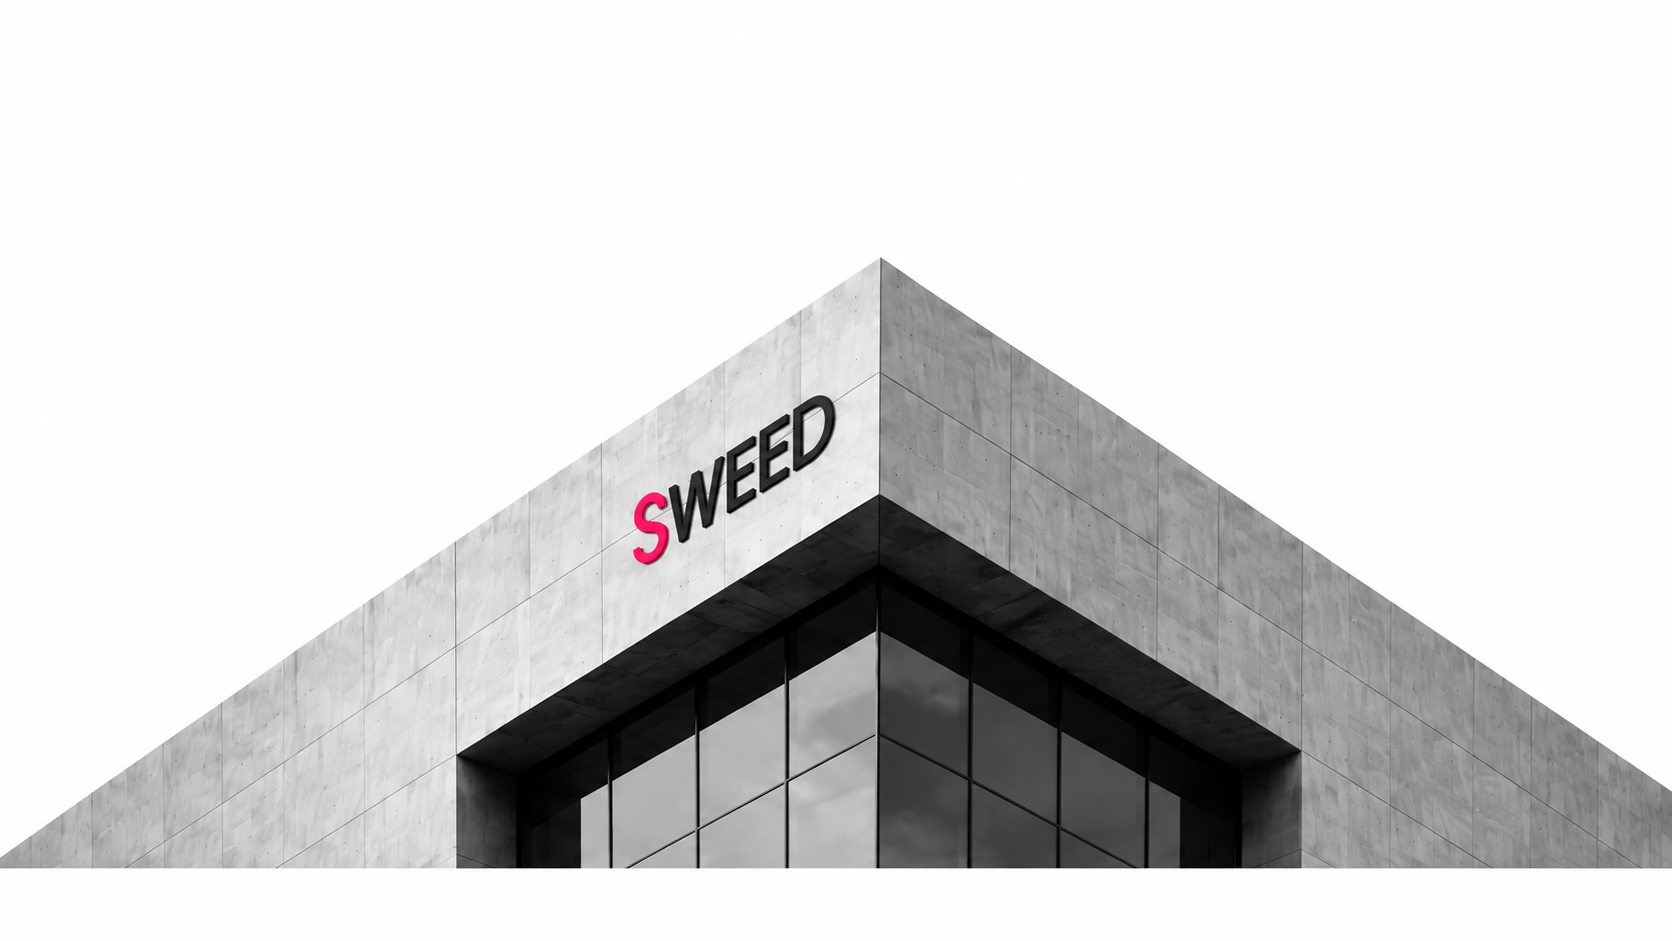
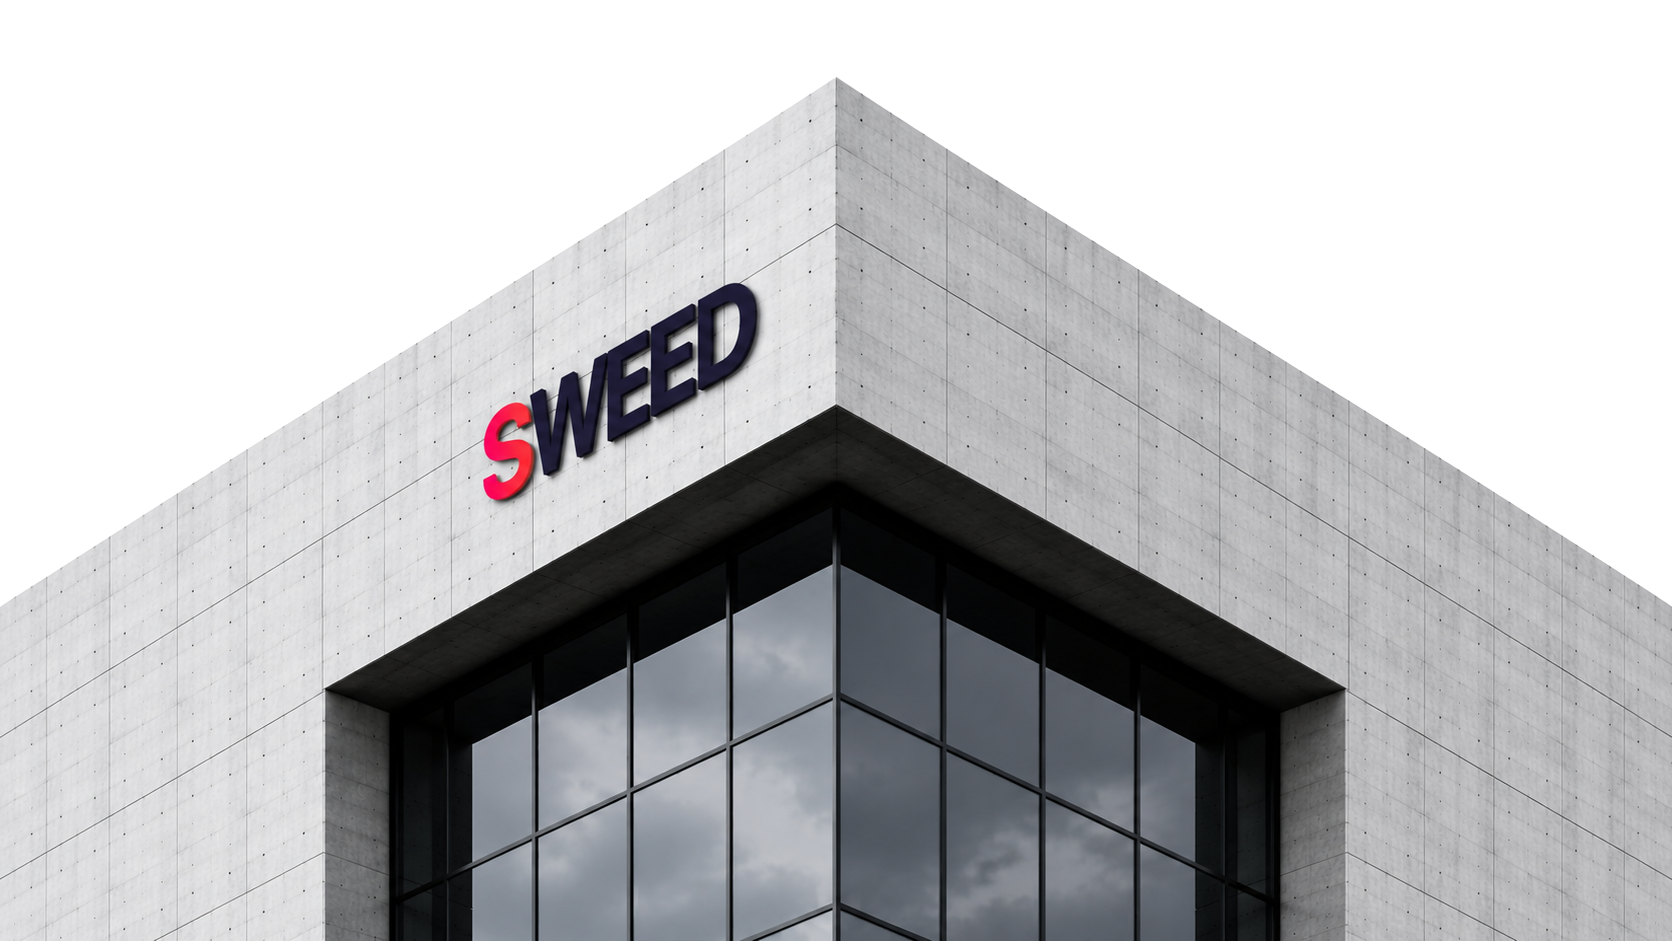
fix: verify hero building and horse section

diff --git a/apps/web/src/features/homepage/home-public-page.tsx b/apps/web/src/features/homepage/home-public-page.tsx
@@ -296,8 +296,7 @@ export function HomePublicPage() {
     const redDots = section.querySelectorAll(`.${styles.redDot}`);
     gsap.set(redDots, { scale: 0 });
 
-    // Timeline for assets reveal (starts when preloader triangle begins opening: 1.6s)
-    const tl = gsap.timeline({ delay: 1.6 });
+    const tl = gsap.timeline({ delay: 0.2 });
 
     tl.to([gridLineLeftRef.current, gridLineRightRef.current], {
       scaleY: 1,
@@ -321,7 +320,7 @@ export function HomePublicPage() {
       opacity: 1,
       duration: 1.1,
       ease: "power3.out",
-    }, "+=0.4");
+    }, "-=0.2");
 
     // ScrollTrigger for the pyramid reveal of the Partners section over the building
     const pyramid = clientsStripRef.current?.querySelector(`.${styles.pyramidOverlay}`);
@@ -483,7 +482,7 @@ export function HomePublicPage() {
 
           <div className={styles.container}>
             <div className={styles.heroContent}>
-              <HeroTextReveal className={styles.heroH1} delay={2.5}>
+              <HeroTextReveal className={styles.heroH1} delay={0.15}>
                 <span className={styles.h1Line}>
                   <span data-word style={{ display: "inline-block", whiteSpace: "pre" }}>نصنع </span>
                   <span data-word style={{ display: "inline-block", whiteSpace: "pre" }}>العلامات </span>
@@ -496,7 +495,7 @@ export function HomePublicPage() {
                 </span>
               </HeroTextReveal>
 
-              <HeroFadeIn className={styles.heroSubtitleWrapper} delay={2.8}>
+              <HeroFadeIn className={styles.heroSubtitleWrapper} delay={0.25}>
                 <p className={styles.heroSubtitle}>
                   نحن وكالة تسويق وتصميم علامات تجارية متكاملة.
                 </p>
@@ -505,7 +504,7 @@ export function HomePublicPage() {
                 </p>
               </HeroFadeIn>
 
-              <HeroFadeIn delay={3.0}>
+              <HeroFadeIn delay={0.35}>
                 <div className={styles.heroActions}>
                   <MagneticButton>
                     <ActionButton action={homepageContent.hero.actions[0]} />

diff --git a/apps/web/src/features/homepage/chess-3d-section.tsx b/apps/web/src/features/homepage/chess-3d-section.tsx
@@ -1,11 +1,33 @@
 "use client";
 
 import Script from "next/script";
-import { createElement } from "react";
+import { createElement, useEffect, useRef } from "react";
 import Image from "next/image";
 import styles from "./chess-3d-section.module.css";
 
 export function Chess3DSection() {
+  const viewerRef = useRef<HTMLElement | null>(null);
+
+  useEffect(() => {
+    const viewer = viewerRef.current;
+    if (!viewer) return;
+
+    let frame = 0;
+    let angle = 0;
+    let last = performance.now();
+
+    const rotate = (now: number) => {
+      angle = (angle + (now - last) * 0.012) % 360;
+      last = now;
+      const distance = window.innerWidth <= 520 ? "4.2m" : window.innerWidth <= 860 ? "3.4m" : "3.2m";
+      viewer.setAttribute("camera-orbit", `${angle.toFixed(2)}deg 72deg ${distance}`);
+      frame = requestAnimationFrame(rotate);
+    };
+
+    frame = requestAnimationFrame(rotate);
+    return () => cancelAnimationFrame(frame);
+  }, []);
+
   return (
     <section className={styles.section} aria-label="SWEED 3D strategy board">
       <Script
@@ -21,8 +43,8 @@ export function Chess3DSection() {
             "auto-rotate": "",
             "auto-rotate-delay": "0",
             "camera-controls": "true",
-            "camera-orbit": "0deg 72deg 2.6m",
-            "camera-target": "0m 0.65m 0m",
+            "camera-orbit": "0deg 72deg 3.2m",
+            "camera-target": "-0.5m 0.65m 0m",
             className: styles.viewer,
             "disable-zoom": "",
             "environment-image": "neutral",
@@ -33,6 +55,7 @@ export function Chess3DSection() {
             loading: "eager",
             "rotation-per-second": "14deg",
             "shadow-intensity": "0.35",
+            ref: viewerRef,
             src: "/models/chess-3d.glb",
           })}
           <Image

diff --git a/apps/web/src/features/homepage/home-public-page.module.css b/apps/web/src/features/homepage/home-public-page.module.css
@@ -295,7 +295,7 @@
 
 /* Building Section */
 .buildingSection {
-  margin-top: 2.5rem;
+  margin-top: 2rem;
   position: relative;
   width: 100%;
   display: flex;
@@ -324,8 +324,6 @@
   clip-path: inset(0 0 35% 0);
   margin-top: 0;
   margin-bottom: -28%;
-  filter: grayscale(100%);
-  mix-blend-mode: multiply;
   transition: transform 0.4s ease;
   transform: translateX(0.5%);
 }
@@ -375,7 +373,8 @@
   }
   
   .heroH1 {
-    font-size: 2.3rem;
+    max-width: calc(100vw - 2rem);
+    font-size: 2.15rem;
     margin-bottom: 1.5rem;
   }
   
@@ -401,6 +400,12 @@
   }
   
   .button {
+    min-width: 0;
+    width: 100%;
+  }
+
+  .heroActions .button {
+    min-width: 0;
     width: 100%;
   }
   

diff --git a/apps/web/src/features/homepage/chess-3d-section.module.css b/apps/web/src/features/homepage/chess-3d-section.module.css
@@ -158,7 +158,7 @@
   }
 
   .viewer {
-    width: 98vw;
+    width: min(92vw, 620px);
     height: 46vh;
     opacity: 1;
     transform: translateY(0) scale(1);
@@ -197,7 +197,7 @@
   }
 
   .viewer {
-    width: 102vw;
+    width: 92vw;
     height: 44vh;
     opacity: 1;
     transform: translateY(0) scale(1);
